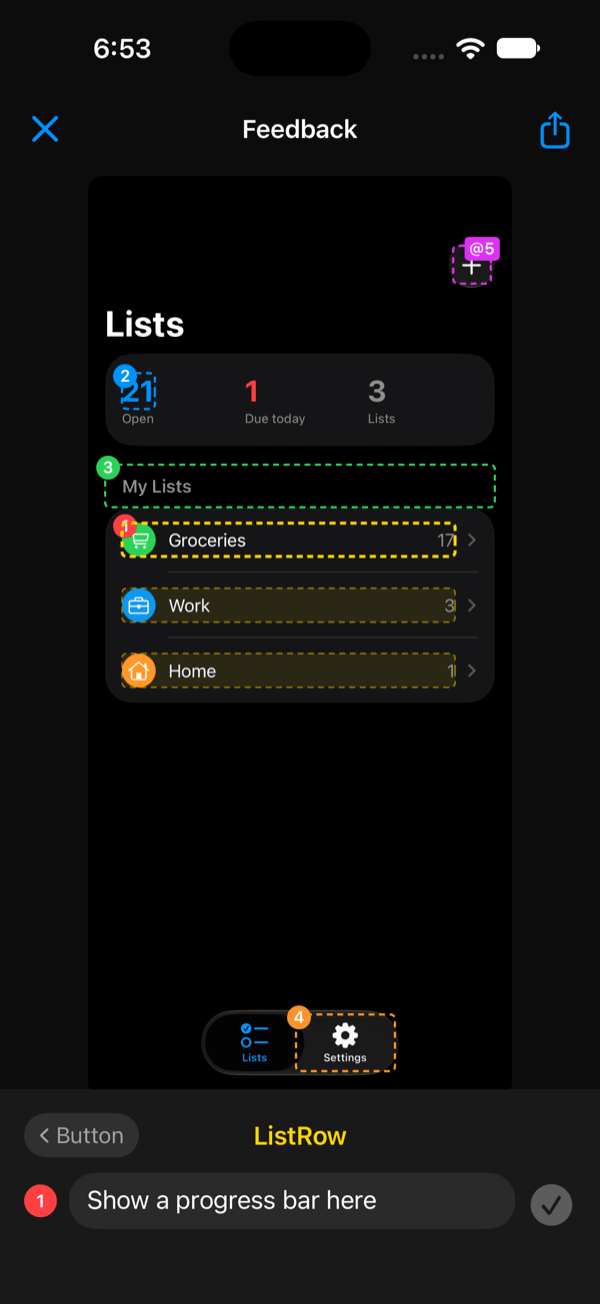
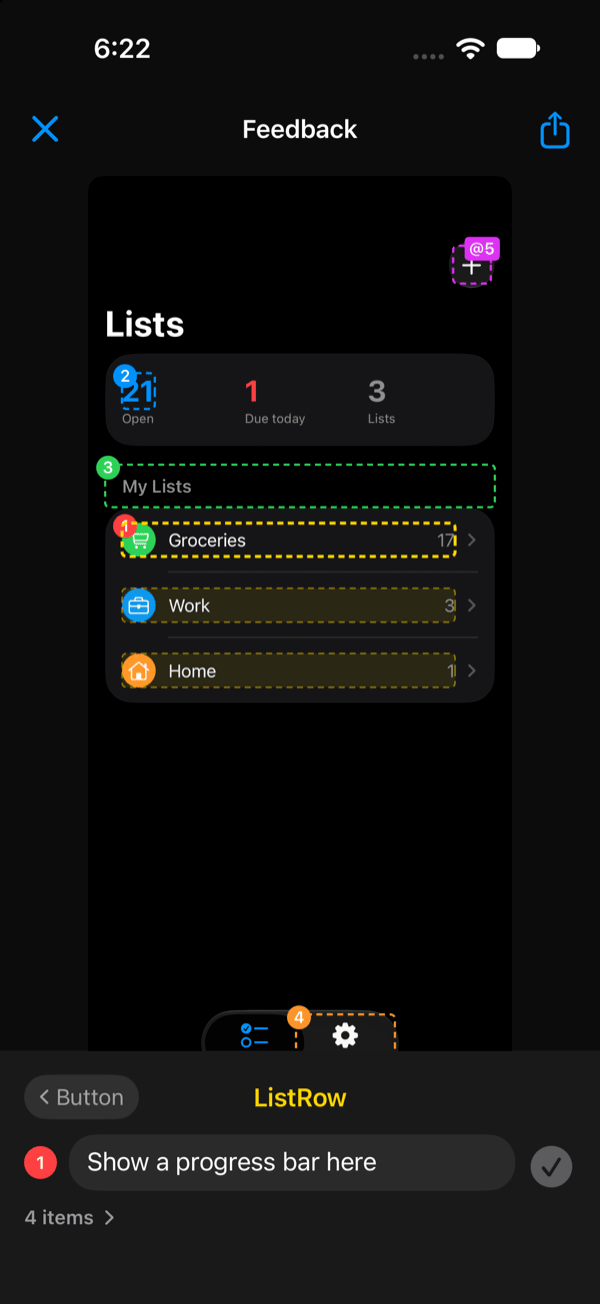
docs: retake the editor images with the item list

Changed region(s): [[0.03, 0.7975, 0.87, 0.9509], [0.87, 0.8589, 0.96, 0.9509], [0.15, 0.0307, 0.24, 0.0613]]

diff --git a/README.md b/README.md
@@ -6,7 +6,7 @@ Shake the device, Alt+Meta+click anything in the browser, or hold three fingers 
 
 | Tap a component in the editor | The `feedback.png` it exports |
 | :---: | :---: |
-| <img src="docs/editor.png" alt="The Feedback editor on iOS, in dark mode: a frozen screenshot with four notes numbered 1 to 4 and an @5 tag on the New List button. The Groceries row, a ListRow, is selected, with its note, Show a progress bar here." width="250"> | <img src="docs/export.png" alt="The exported feedback.png: the screenshot with four numbered boxes and the New List button tagged @5. One column on the left holds the app's details as Name: value lines, a References line naming @5 as Button New List, and a card per note, each joined to its box by a curve with a dot at each end that crosses no other box. Each card has its note, the component or element, and its file:line. The note on Settings names the New List button as @5_Button, highlighted in the color of that button's box. A faint GitHub mark and the repository's URL sit in the top left corner, above the details." width="520"> |
+| <img src="docs/editor.png" alt="The Feedback editor on iOS, in dark mode: a frozen screenshot with four notes numbered 1 to 4 and an @5 tag on the New List button. The Groceries row, a ListRow, is selected, with its note, Show a progress bar here, and a closed 4 items list under the field." width="250"> | <img src="docs/export.png" alt="The exported feedback.png: the screenshot with four numbered boxes and the New List button tagged @5. One column on the left holds the app's details as Name: value lines, a References line naming @5 as Button New List, and a card per note, each joined to its box by a curve with a dot at each end that crosses no other box. Each card has its note, the component or element, and its file:line. The note on Settings names the New List button as @5_Button, highlighted in the color of that button's box. A faint GitHub mark and the repository's URL sit in the top left corner, above the details." width="520"> |
 
 Four notes on one screen. The fourth points at a second element. Type `@`, tap the element, and the note reads `Move this next to @5_Button`. The export draws that element's box and highlights the token in the same color, so an agent knows which button you meant.
 
@@ -139,7 +139,7 @@ bun add @stefan.inc/feedback-engine
 
 | The editor in the browser | The `feedback.png` it exports |
 | :---: | :---: |
-| <img src="docs/web-editor.png" alt="The Feedback editor in Google Chrome over the React example: the page's screenshot on the left with four notes numbered 1 to 4 and an @5 tag on the New List button, and the panel on the right with the Groceries row, a ListRow, selected and its note, Show a progress bar here." width="320"> | <img src="docs/web-export.png" alt="The feedback.png exported from the browser: the page with four numbered boxes and the New List button tagged @5. One column on the left holds the app's details as Name: value lines, a References line naming @5 with its file:line, and a card per note, each joined to its box by a curve with a dot at each end that crosses no other box. Each card has its note, the component or element, and its file:line. The note on Settings reads Move this next to @5_Button. A faint GitHub mark and the repository's URL sit in the top left corner, above the details." width="520"> |
+| <img src="docs/web-editor.png" alt="The Feedback editor in Google Chrome over the React example: the page's screenshot on the left with four notes numbered 1 to 4 and an @5 tag on the New List button, and the panel on the right with the Groceries row, a ListRow, selected and its note, Show a progress bar here, and under the field all four notes, each with its number, target, and text." width="320"> | <img src="docs/web-export.png" alt="The feedback.png exported from the browser: the page with four numbered boxes and the New List button tagged @5. One column on the left holds the app's details as Name: value lines, a References line naming @5 with its file:line, and a card per note, each joined to its box by a curve with a dot at each end that crosses no other box. Each card has its note, the component or element, and its file:line. The note on Settings reads Move this next to @5_Button. A faint GitHub mark and the repository's URL sit in the top left corner, above the details." width="520"> |
 
 Four notes on the React example in Google Chrome, the last one with a reference to the New List button. Each card names its component or element and the `file:line` it comes from, such as `src/components/ListRow.tsx:4`.
 

diff --git a/packages/web/README.md b/packages/web/README.md
@@ -8,7 +8,7 @@ Alt+Meta+click anything in the browser, click any component on the frozen screen
 
 | The editor in the browser | The `feedback.png` it exports |
 | :---: | :---: |
-| <img src="https://raw.githubusercontent.com/smirea/feedback-engine/master/docs/web-editor.png" alt="The Feedback editor in Google Chrome over the React example: the page's screenshot on the left with four notes numbered 1 to 4 and an @5 tag on the New List button, and the panel on the right with the Groceries row, a ListRow, selected and its note, Show a progress bar here." width="320"> | <img src="https://raw.githubusercontent.com/smirea/feedback-engine/master/docs/web-export.png" alt="The feedback.png exported from the browser: the page with four numbered boxes and the New List button tagged @5. One column on the left holds the app's details as Name: value lines, a References line naming @5 with its file:line, and a card per note, each joined to its box by a curve with a dot at each end that crosses no other box. Each card has its note, the component or element, and its file:line. The note on Settings reads Move this next to @5_Button. A faint GitHub mark and the repository's URL sit in the top left corner, above the details." width="520"> |
+| <img src="https://raw.githubusercontent.com/smirea/feedback-engine/master/docs/web-editor.png" alt="The Feedback editor in Google Chrome over the React example: the page's screenshot on the left with four notes numbered 1 to 4 and an @5 tag on the New List button, and the panel on the right with the Groceries row, a ListRow, selected and its note, Show a progress bar here, and under the field all four notes, each with its number, target, and text." width="320"> | <img src="https://raw.githubusercontent.com/smirea/feedback-engine/master/docs/web-export.png" alt="The feedback.png exported from the browser: the page with four numbered boxes and the New List button tagged @5. One column on the left holds the app's details as Name: value lines, a References line naming @5 with its file:line, and a card per note, each joined to its box by a curve with a dot at each end that crosses no other box. Each card has its note, the component or element, and its file:line. The note on Settings reads Move this next to @5_Button. A faint GitHub mark and the repository's URL sit in the top left corner, above the details." width="520"> |
 
 Four notes on the React example in Google Chrome. The last one points at a second element. Type `@`, click the element, and the note reads `Move this next to @5_Button`. The export draws that element's box and highlights the token in the same color, so an agent knows which button you meant. Each card names its component or element and the `file:line` it comes from, such as `src/components/ListRow.tsx:4`.
 
